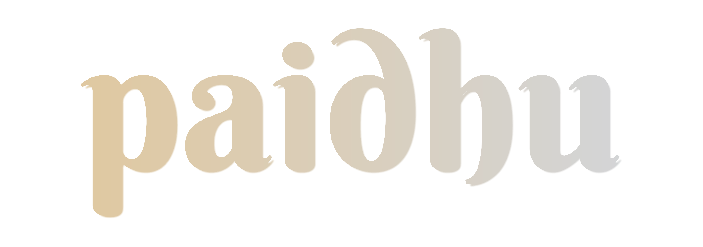
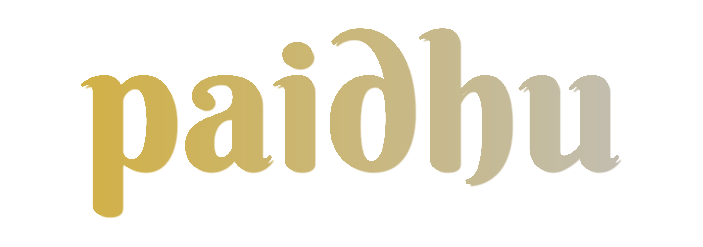
Apply gold-silver gradient to paidhu text and GROUP word

Changed region(s): [[0.1195, 0.1134, 0.8962, 0.8785]]

diff --git a/client/src/App.jsx b/client/src/App.jsx
@@ -133,7 +133,7 @@ function App() {
         </div>
         <h1 className="hero-tagline" style={{ display: 'flex', alignItems: 'center', gap: '15px', justifyContent: 'center' }}>
           <img src="/assets/paidhu_text_gold.png" alt="Paidhu" style={{ height: '70px', objectFit: 'contain' }} />
-          <span>GROUP</span>
+          <span style={{ background: 'linear-gradient(90deg, #d4af37, #c0c0c0)', WebkitBackgroundClip: 'text', WebkitTextFillColor: 'transparent' }}>GROUP</span>
         </h1>
         <p className="hero-description">
           A multi-brand ecosystem driving ethical growth, premium lifestyles, luxury craftsmanship, and smart education.
